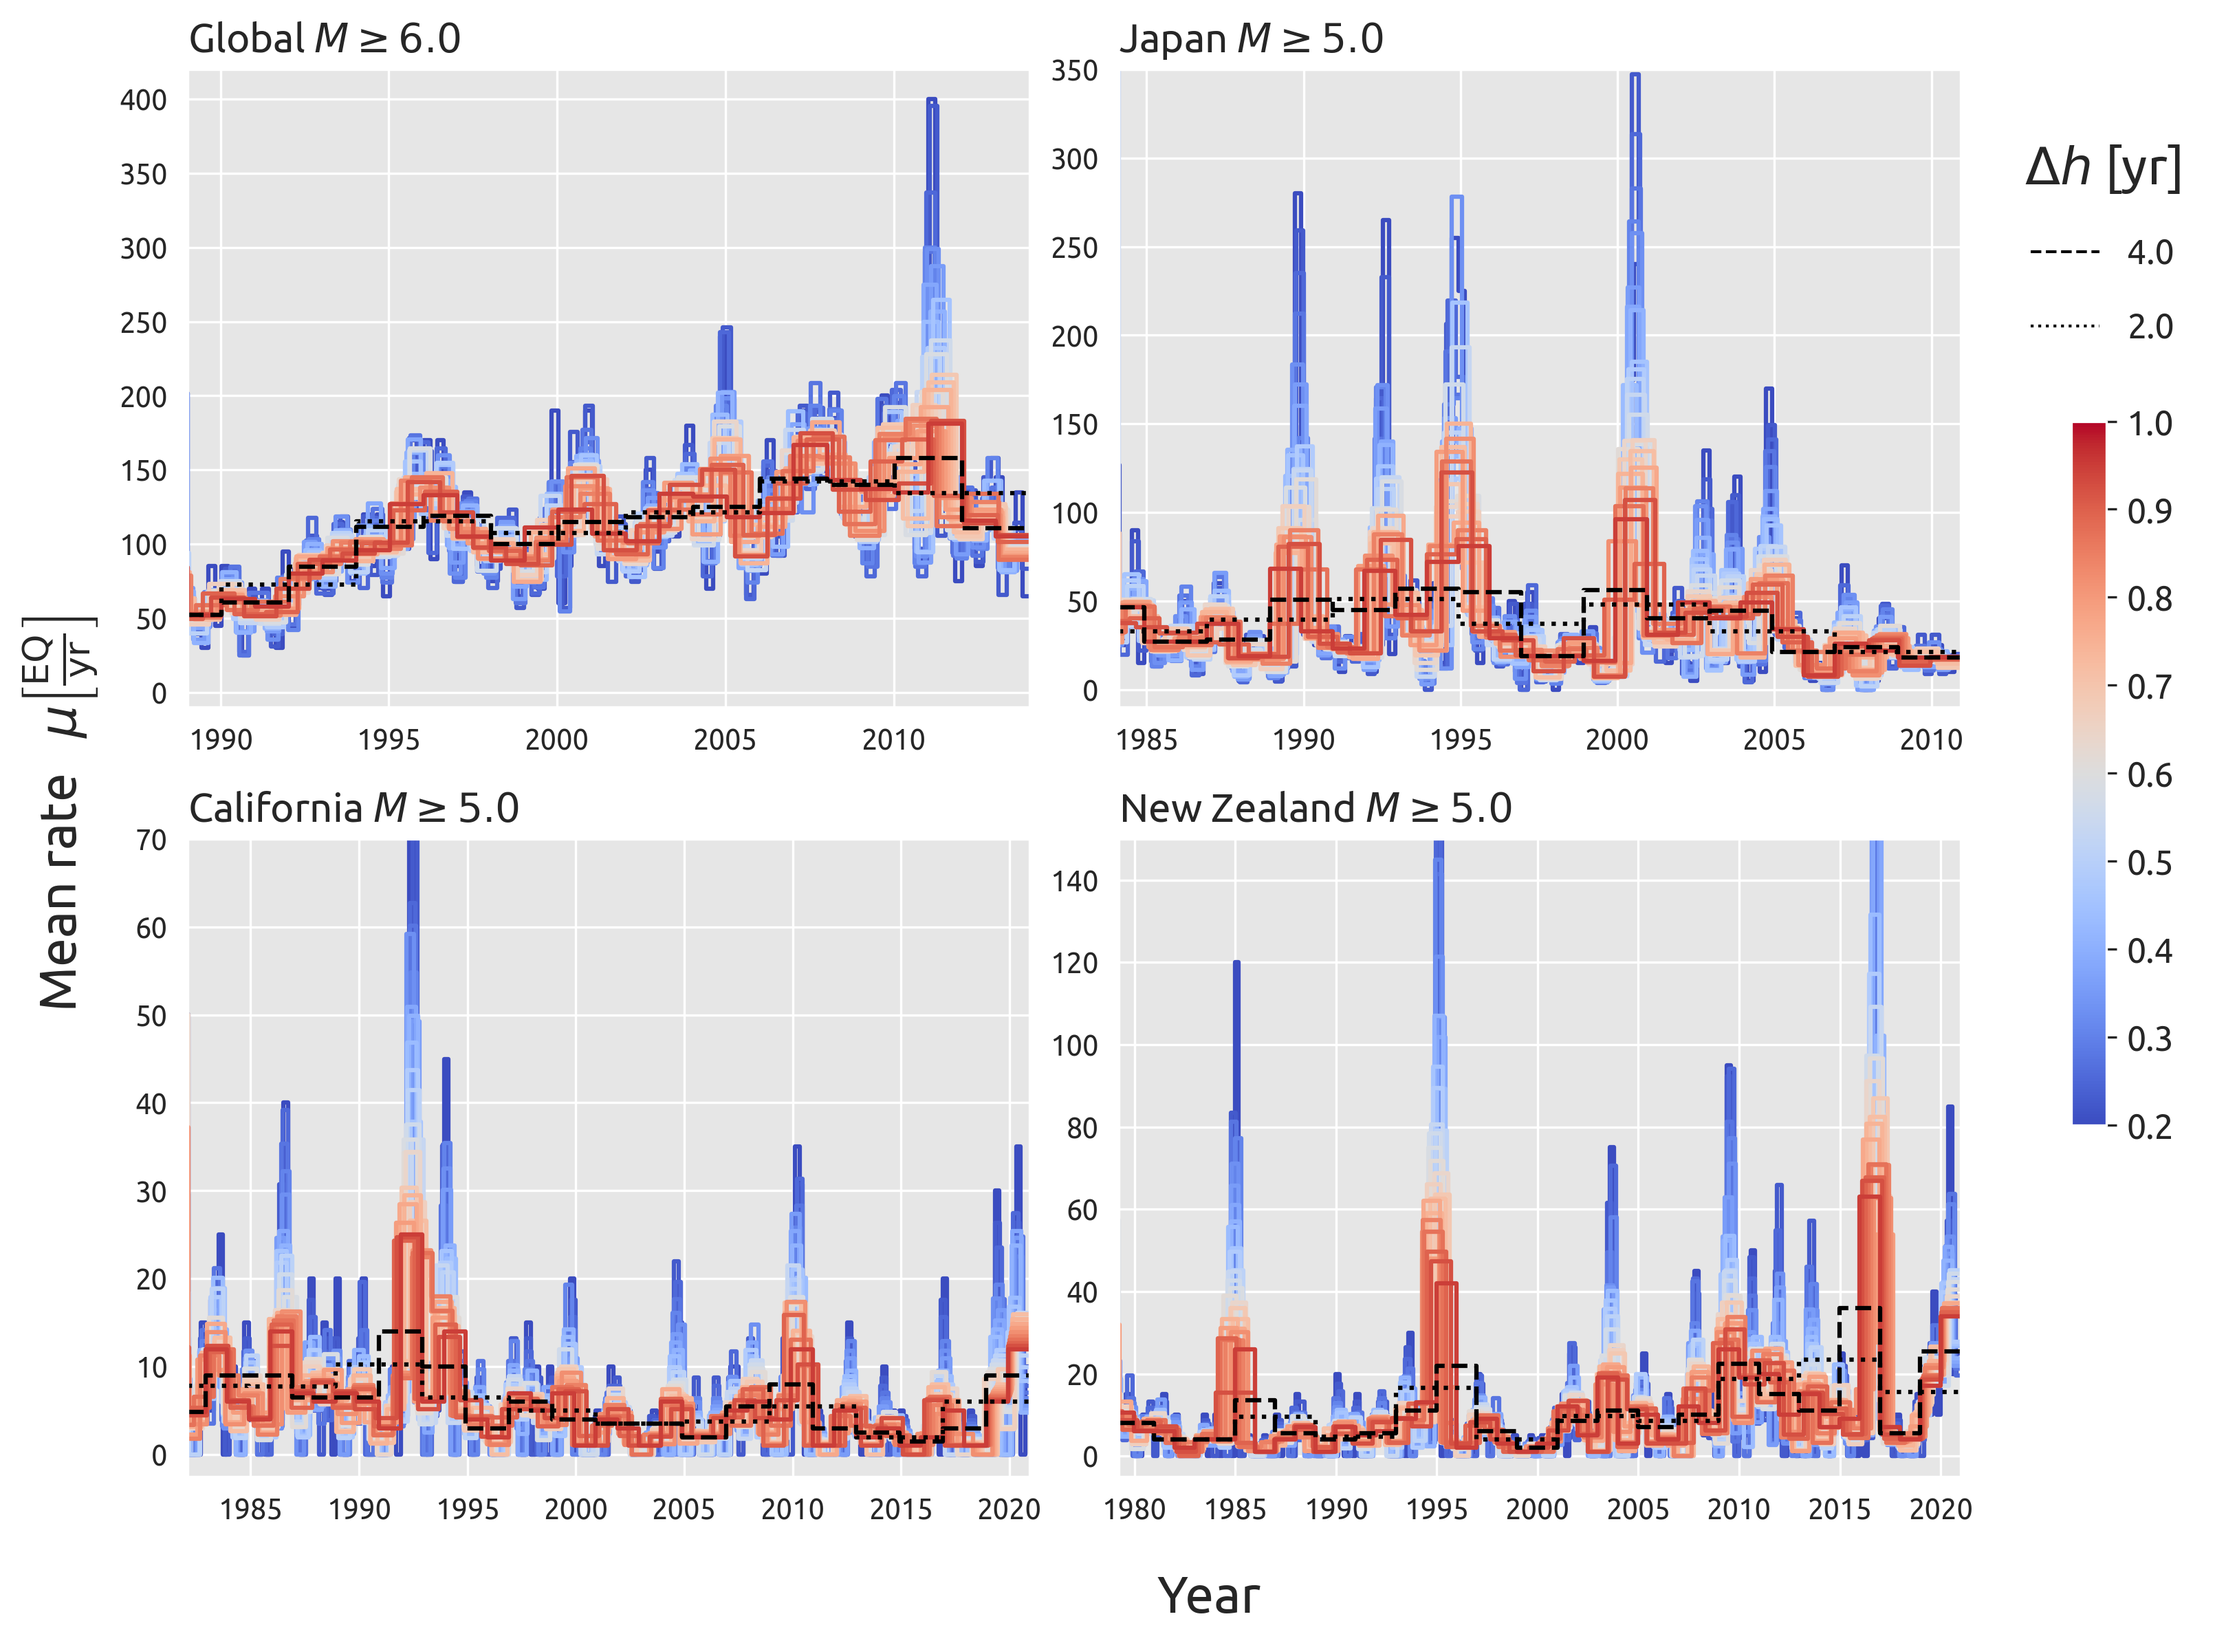
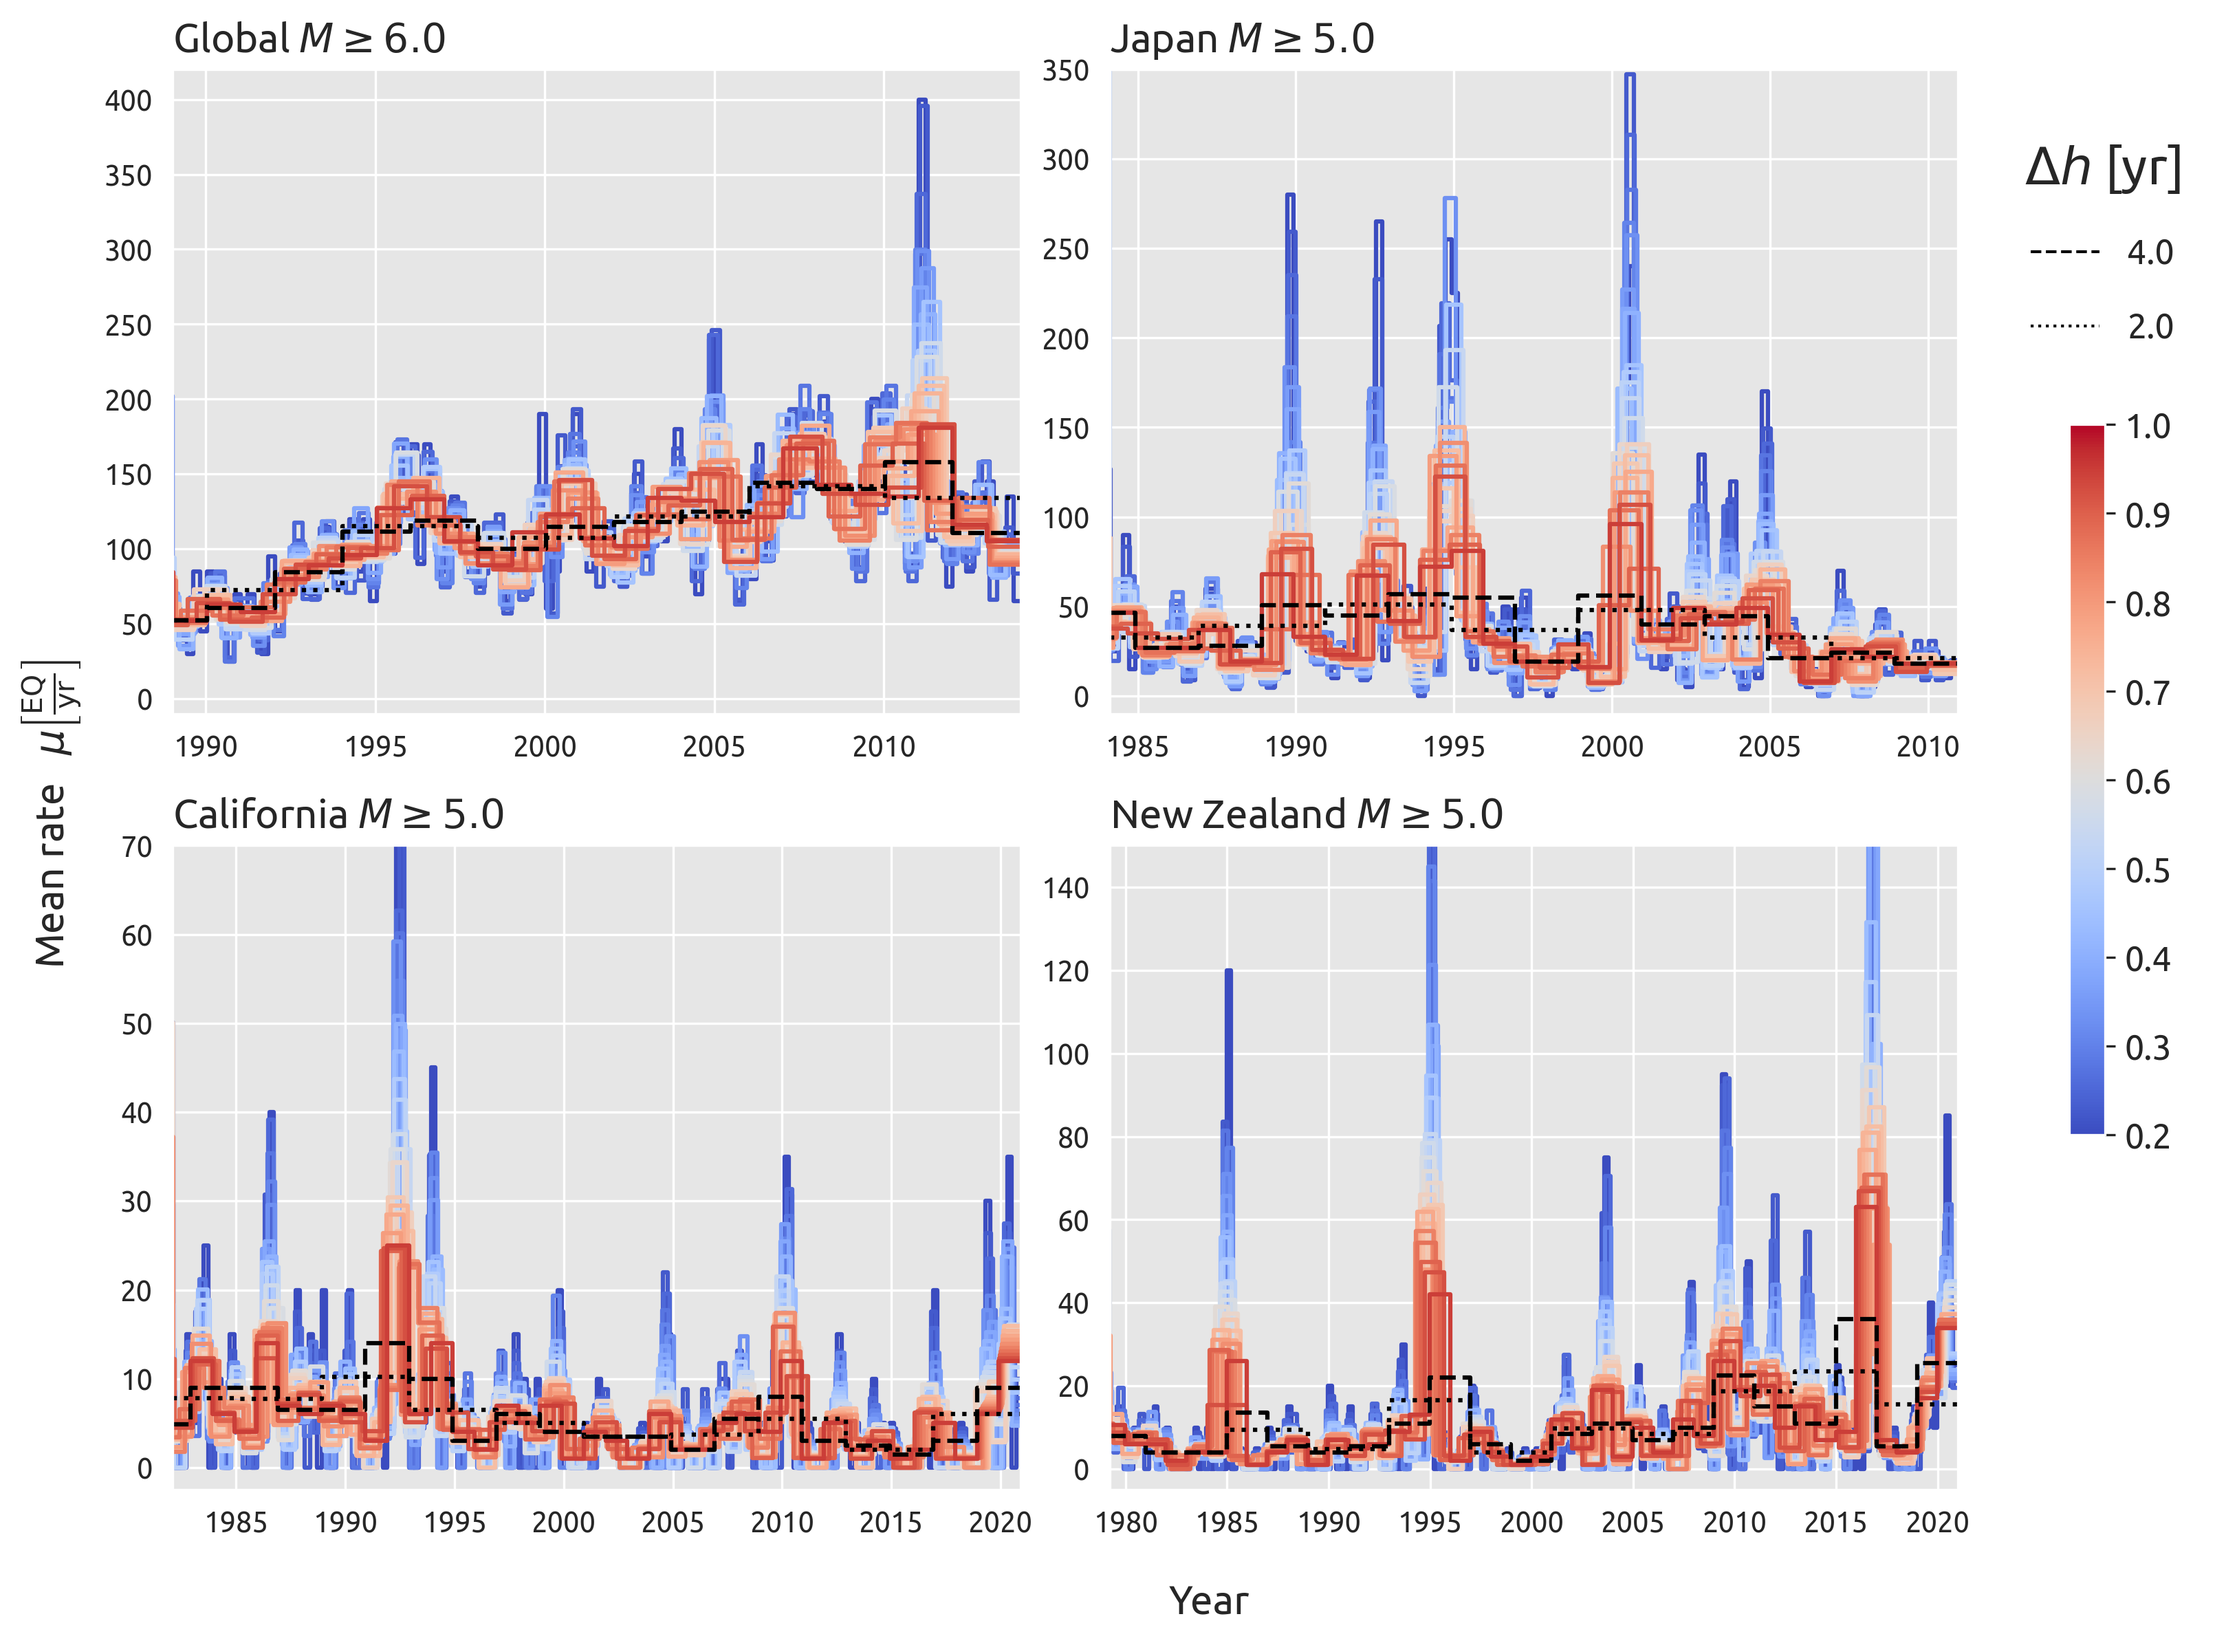
Preliminary overhaul of temporal analysis code.

diff --git a/run/C_time_series_analysis.py b/run/C_time_series_analysis.py
@@ -109,8 +109,8 @@ def plot_rateseries_catalogs():
                      title=r'New Zealand $M\geq5.0$', **ratecalc_args)
 
     fig.supylabel(r'Mean rate   $\mu\left[\frac{\mathrm{EQ}}'
-                  r'{\mathrm{yr}}\right]$', fontsize=18)
-    fig.supxlabel('Year', fontsize=18)
+                  r'{\mathrm{yr}}\right]$', fontsize=14)
+    fig.supxlabel('Year', fontsize=14)
     fig.tight_layout()
 
     sm = plt.cm.ScalarMappable(cmap='coolwarm')
